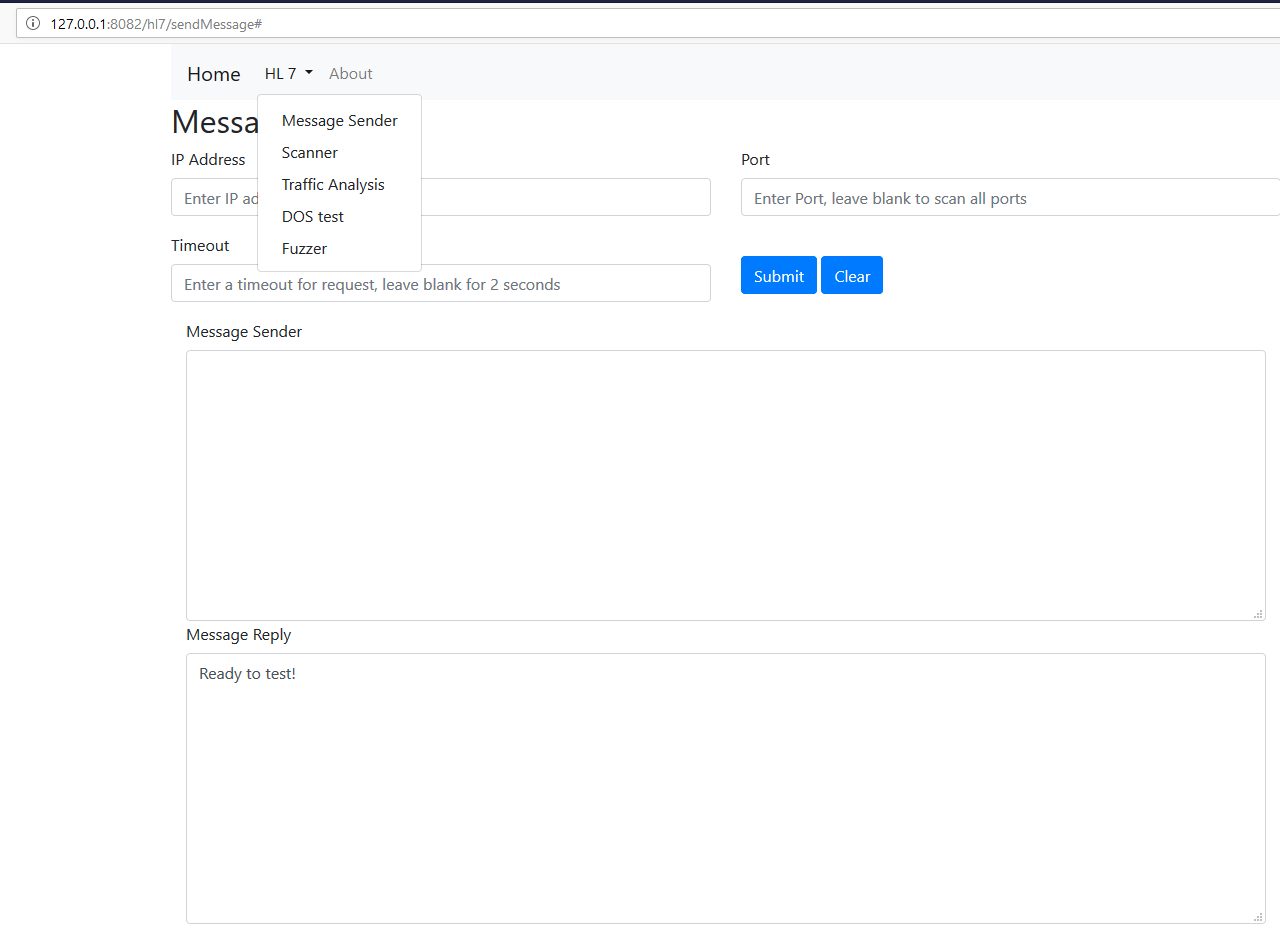
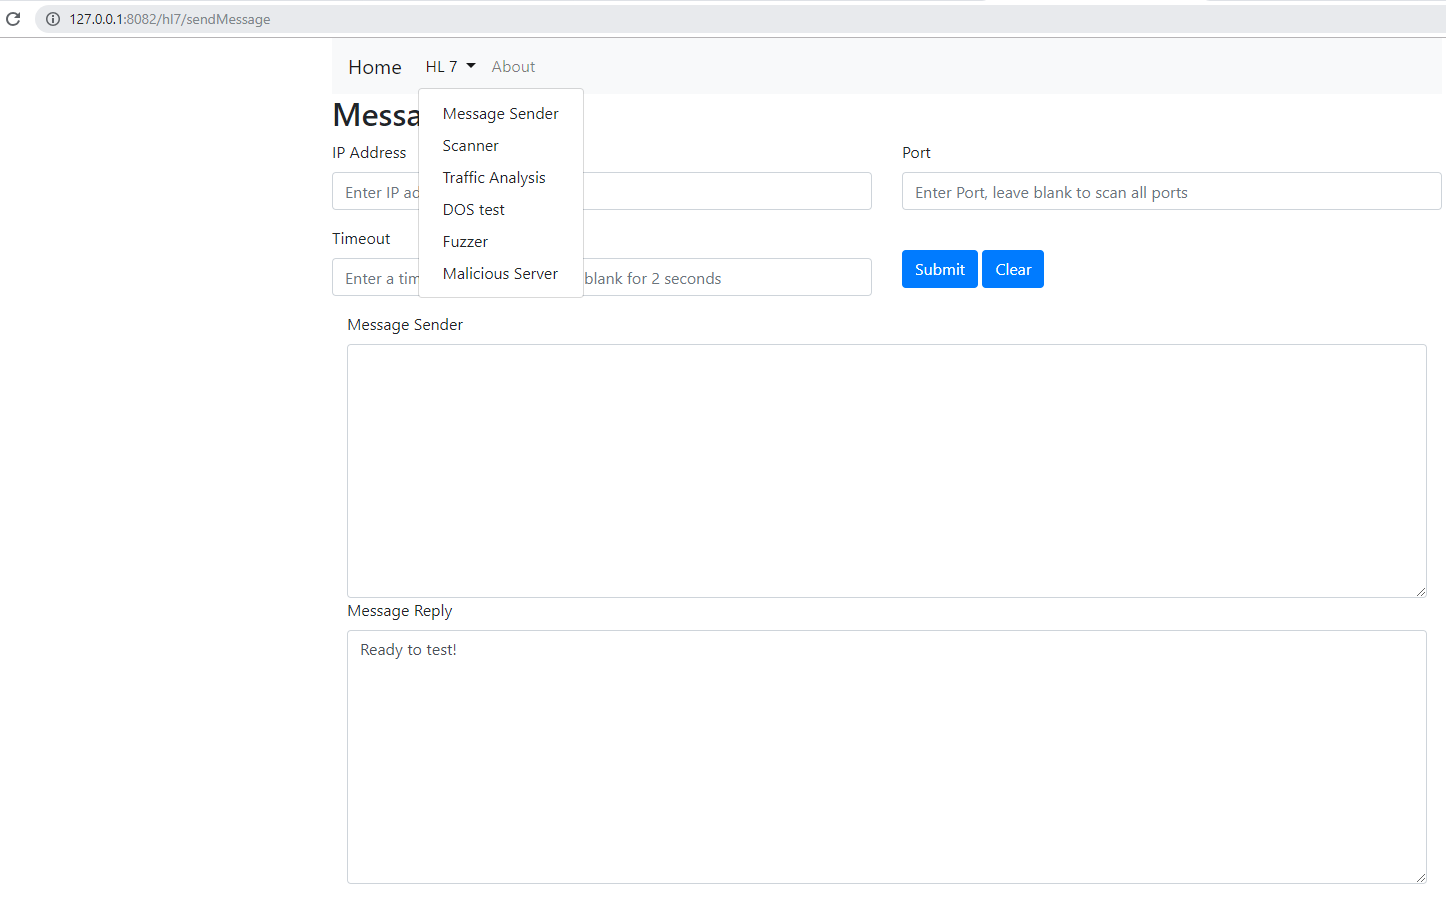
Applying latest changes

diff --git a/src/templates/fuzzer.html b/src/templates/fuzzer.html
@@ -25,6 +25,7 @@
               <a class="dropdown-item" href="/hl7/analyzeTraffic">Traffic Analysis</a>
               <a class="dropdown-item" href="/hl7/exhaustHl7Ports">DOS test</a>
                 <a class="dropdown-item" href="/hl7/fuzzer">Fuzzer</a>
+                <a class="dropdown-item" href="/hl7/MaliciousServer">Malicious Server</a>
             </div>
           </li>
             <li class="nav-item">

diff --git a/src/templates/scanHl7Ports.html b/src/templates/scanHl7Ports.html
@@ -24,6 +24,7 @@
               <a class="dropdown-item" href="/hl7/analyzeTraffic">Traffic Analysis</a>
               <a class="dropdown-item" href="/hl7/exhaustHl7Ports">DOS test</a>
                 <a class="dropdown-item" href="/hl7/fuzzer">Fuzzer</a>
+                <a class="dropdown-item" href="/hl7/MaliciousServer">Malicious Server</a>
             </div>
           </li>
             <li class="nav-item">

diff --git a/src/templates/sendMessage.html b/src/templates/sendMessage.html
@@ -25,6 +25,7 @@
               <a class="dropdown-item" href="/hl7/analyzeTraffic">Traffic Analysis</a>
               <a class="dropdown-item" href="/hl7/exhaustHl7Ports">DOS test</a>
                 <a class="dropdown-item" href="/hl7/fuzzer">Fuzzer</a>
+                <a class="dropdown-item" href="/hl7/MaliciousServer">Malicious Server</a>
             </div>
           </li>
             <li class="nav-item">

diff --git a/src/templates/about.html b/src/templates/about.html
@@ -24,6 +24,7 @@
               <a class="dropdown-item" href="/hl7/analyzeTraffic">Traffic Analysis</a>
               <a class="dropdown-item" href="/hl7/exhaustHl7Ports">DOS test</a>
               <a class="dropdown-item" href="/hl7/fuzzer">Fuzzer</a>
+                <a class="dropdown-item" href="/hl7/MaliciousServer">Malicious Server</a>
             </div>
           </li>
             <li class="nav-item">

diff --git a/src/templates/exhaustHl7Ports.html b/src/templates/exhaustHl7Ports.html
@@ -24,6 +24,7 @@
               <a class="dropdown-item" href="/hl7/analyzeTraffic">Traffic Analysis</a>
               <a class="dropdown-item" href="/hl7/exhaustHl7Ports">DOS test</a>
               <a class="dropdown-item" href="/hl7/fuzzer">Fuzzer</a>
+                <a class="dropdown-item" href="/hl7/MaliciousServer">Malicious Server</a>
             </div>
           </li>
             <li class="nav-item">
